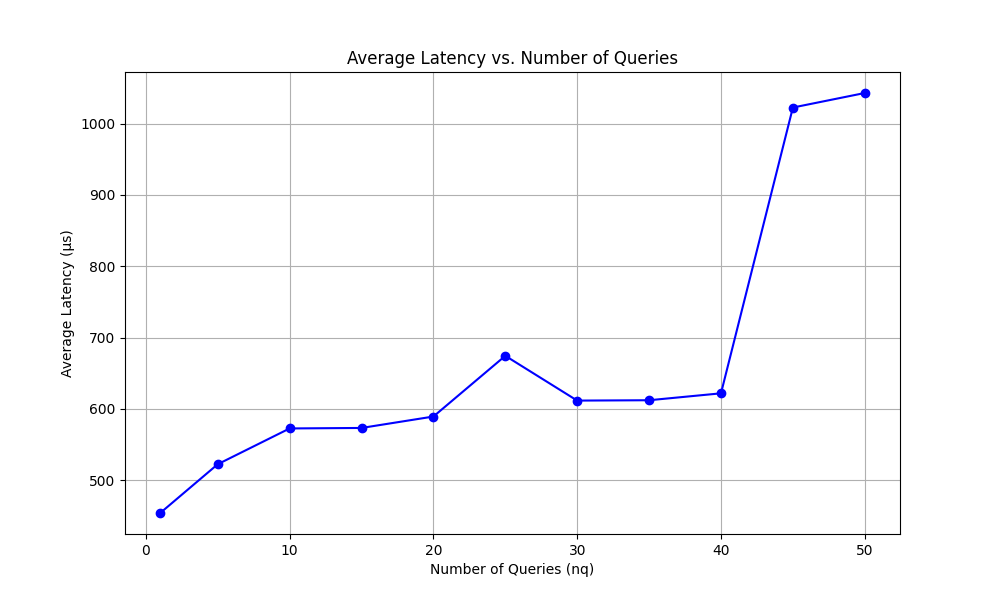
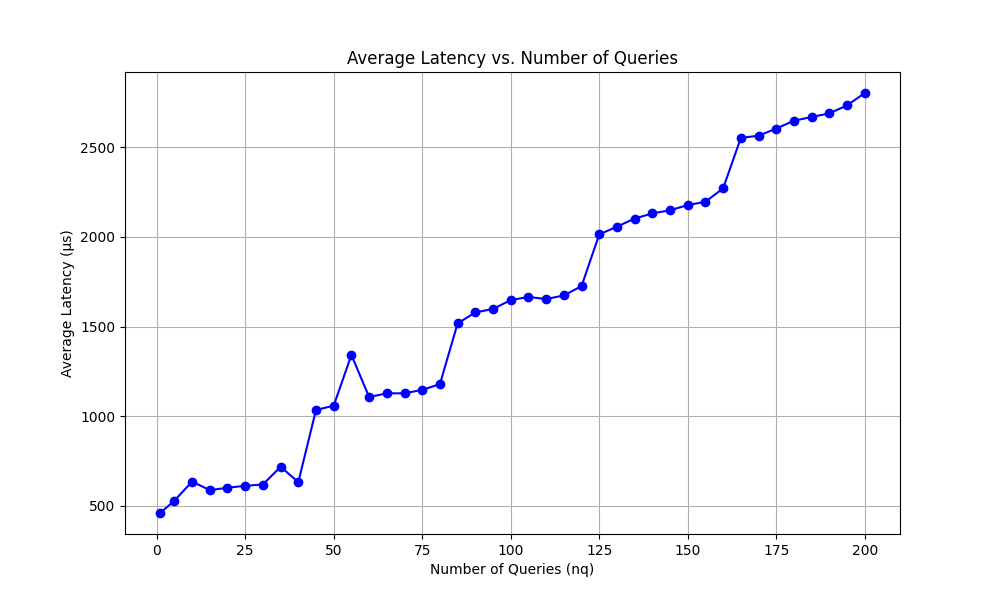
Update plots

diff --git a/perf/perf-6-HNSW/6-HNSW-test.cpp b/perf/perf-6-HNSW/6-HNSW-test.cpp
@@ -24,7 +24,7 @@ int main() {
     int nb = 10000; // database size
 
     std::vector<int> nq_values;
-    for (int nq = 1; nq <= 50; nq += (nq == 1 ? 4 : 5)) {
+    for (int nq = 1; nq <= 200; nq += (nq == 1 ? 4 : 5)) {
         nq_values.push_back(nq);
     }
 
